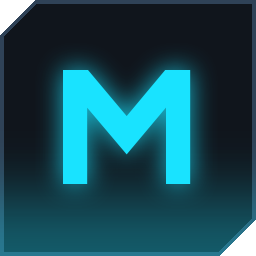
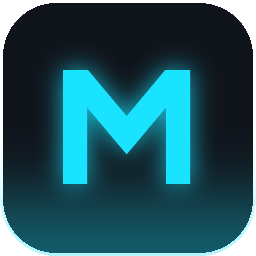
mindos-theme, mindos-session: aurora wallpaper and dark mode everywhere
The generated wallpaper and logo move to the aurora look (cyan, violet,
blue and teal blobs over navy). mindos-session now makes every toolkit
dark: GTK settings.ini (Adwaita-dark, prefer-dark, all three title bar
buttons), a portal config so the settings portal answers from GSettings,
a gschema override that defaults the colour scheme to prefer-dark, and
Firefox defaults that draw its own dark tab bar (GTK never asks the
compositor for a title bar on Wayland). foot 1.28 wants the cursor
colours inside [colors-dark].

Claude-Session: https://claude.ai/code/session_013ptjxJijwrc73onM3Kxnpf

Changed region(s): [[0.0, 0.0, 1.0, 1.0], [0.875, 0.875, 0.9688, 0.9688]]

diff --git a/packages/mindos-session/firefox-mindos.js b/packages/mindos-session/firefox-mindos.js
@@ -1,0 +1,12 @@
+// MindOS defaults for Firefox (/usr/lib/firefox/defaults/pref/mindos.js).
+// Dark everything: the browser chrome follows a dark system theme, and pages
+// see prefers-color-scheme: dark. Users can still change these in about:config
+// or pick a theme in about:addons.
+pref("ui.systemUsesDarkTheme", 1);
+pref("browser.theme.content-theme", 0);
+pref("browser.theme.toolbar-theme", 0);
+pref("layout.css.prefers-color-scheme.content-override", 0);
+// GTK never asks the compositor for a title bar on Wayland, so Firefox draws
+// its own: tabs in the title bar, with the buttons from gtk-decoration-layout.
+pref("browser.tabs.inTitlebar", 1);
+pref("widget.gtk.overlay-scrollbars.enabled", true);

diff --git a/packages/mindos-theme/gen-assets.py b/packages/mindos-theme/gen-assets.py
@@ -26,6 +26,8 @@ FG_DIM = (0x8B, 0x9B, 0xB0)
 FG_FAINT = (0x55, 0x65, 0x7A)
 ACCENT = (0x19, 0xE3, 0xFF)
 ACCENT_DIM = (0x0A, 0xA7, 0xC2)
+MIND = (0xA7, 0x8B, 0xFA)
+OK = (0x3D, 0xDC, 0x97)
 
 
 def font(name, px):
@@ -215,46 +217,63 @@ def compose_boot(w, h, progress=0.6, frame=40):
 
 
 def wallpaper(w=2560, h=1440):
-    img = gradient(w, h, VOID, (0x0B, 0x11, 0x19)).convert("RGBA")
-    # faint 48 px grid, strongest at the bottom, gone at the top
-    grid = Image.new("L", (w, h), 0)
-    d = ImageDraw.Draw(grid)
-    for x in range(0, w, 48):
-        d.line((x, 0, x, h), fill=255)
-    for y in range(h % 48, h, 48):
-        d.line((0, y, w, y), fill=255)
-    fade = Image.linear_gradient("L").resize((w, h))            # black top → white bottom
-    fade = fade.point(lambda v: int(v * 0.30))
-    from PIL import ImageChops
-    grid = ImageChops.multiply(grid, fade)
-    img.alpha_composite(tint(grid, LINE))
-    # soft cyan glow rising from the bottom centre (exact elliptical falloff)
+    """The aurora: a deep navy void with soft cyan, violet and blue light
+    behind everything (mirrors --aurora in mindshell/ui/src/app.css so the
+    built-in and the PNG wallpaper look the same)."""
     import numpy as np
-    gw, gh = int(w * 0.9), int(h * 0.55)
-    ys, xs = np.mgrid[0:gh, 0:gw]
-    d2 = ((xs - gw / 2) / (gw / 2)) ** 2 + ((ys - gh / 2) / (gh / 2)) ** 2
-    fall = np.clip(1.0 - d2, 0.0, 1.0) ** 2
-    glow = Image.fromarray((fall * 255 * 0.16).astype("uint8"), "L")
-    img.alpha_composite(tint(glow, ACCENT), (int(w / 2 - gw / 2), int(h - gh * 0.45)))
+    ys, xs = np.mgrid[0:h, 0:w]
+    u = xs / (w - 1)
+    v = ys / (h - 1)
+    # base: diagonal gradient #0d1526 -> #080c15 -> #05070c
+    t = np.clip(0.5 * u + 0.5 * v, 0, 1)
+    stops = [(0.0, (0x0D, 0x15, 0x26)), (0.48, (0x08, 0x0C, 0x15)), (1.0, (0x05, 0x07, 0x0C))]
+    base = np.zeros((h, w, 3), dtype="float32")
+    for (t0, c0), (t1, c1) in zip(stops, stops[1:]):
+        k = np.clip((t - t0) / (t1 - t0), 0, 1)
+        seg = (t >= t0) & (t <= t1)
+        for i in range(3):
+            base[..., i] = np.where(seg, c0[i] + (c1[i] - c0[i]) * k, base[..., i])
+
+    def blob(cx, cy, rx, ry, color, alpha):
+        d2 = ((u - cx) / rx) ** 2 + ((v - cy) / ry) ** 2
+        fall = np.clip(1.0 - np.sqrt(d2) / 0.72, 0, 1) ** 1.4 * alpha
+        for i in range(3):
+            base[..., i] += (color[i] - base[..., i]) * fall
+
+    blob(0.16, 0.22, 0.58, 0.60, ACCENT, 0.50)
+    blob(0.85, 0.80, 0.52, 0.62, MIND, 0.56)
+    blob(0.62, 0.38, 0.34, 0.40, (0x3B, 0x82, 0xF6), 0.42)
+    blob(0.34, 0.96, 0.44, 0.40, OK, 0.20)
+    blob(0.92, 0.08, 0.30, 0.34, ACCENT, 0.24)
+    # a faint, wide diagonal light streak
+    d = np.abs((u * 0.47 + v * 0.53) - 0.5)
+    streak = np.clip(1.0 - d / 0.22, 0, 1) ** 3 * 0.03 * 255
+    base += streak[..., None]
+    # vignette
+    vig = np.clip((np.sqrt(((u - 0.5) / 0.6) ** 2 + ((v - 0.5) / 0.45) ** 2) - 0.58) / 0.42, 0, 1)
+    base *= (1.0 - 0.38 * vig)[..., None]
+    # ordered dither + fine grain so the gradients do not band
+    rng = np.random.default_rng(6)
+    base += rng.normal(0.0, 1.1, size=(h, w, 1)).astype("float32")
+    img = Image.fromarray(np.clip(base + 0.5, 0, 255).astype("uint8"), "RGB").convert("RGBA")
     # wordmark, bottom right, quiet
     fnt = font("Orbitron-Bold.ttf", 26)
     m = text_mask("MINDOS", fnt, 6, 4)
-    img.alpha_composite(tint(m, FG, 0.22), (w - 72 - m.width, h - 72 - m.height))
+    img.alpha_composite(tint(m, FG, 0.16), (w - 72 - m.width, h - 72 - m.height))
     return img.convert("RGB")
 
 
 def icon(size=256):
     img = Image.new("RGBA", (size, size), (0, 0, 0, 0))
     d = ImageDraw.Draw(img)
-    c = size * 0.14  # chamfer
-    poly = [(c, 0), (size - 1, 0), (size - 1, size - 1 - c), (size - 1 - c, size - 1), (0, size - 1), (0, c)]
-    d.polygon(poly, fill=BG1 + (255,), outline=LINE_STRONG + (255,), width=4)
+    r = size * 0.22  # corner radius
+    d.rounded_rectangle((0, 0, size - 1, size - 1), radius=r, fill=BG1 + (255,), outline=(255, 255, 255, 40), width=3)
     # inner cyan glow at the bottom edge
     glow = Image.new("L", (size, size), 0)
     ImageDraw.Draw(glow).rectangle((0, size * 0.78, size, size), fill=255)
     glow = glow.filter(ImageFilter.GaussianBlur(size * 0.12)).point(lambda v: int(v * 0.35))
     shape = Image.new("L", (size, size), 0)
-    ImageDraw.Draw(shape).polygon(poly, fill=255)
+    ImageDraw.Draw(shape).rounded_rectangle((0, 0, size - 1, size - 1), radius=r, fill=255)
     from PIL import ImageChops
     img.alpha_composite(tint(ImageChops.multiply(glow, shape), ACCENT))
     # the M
